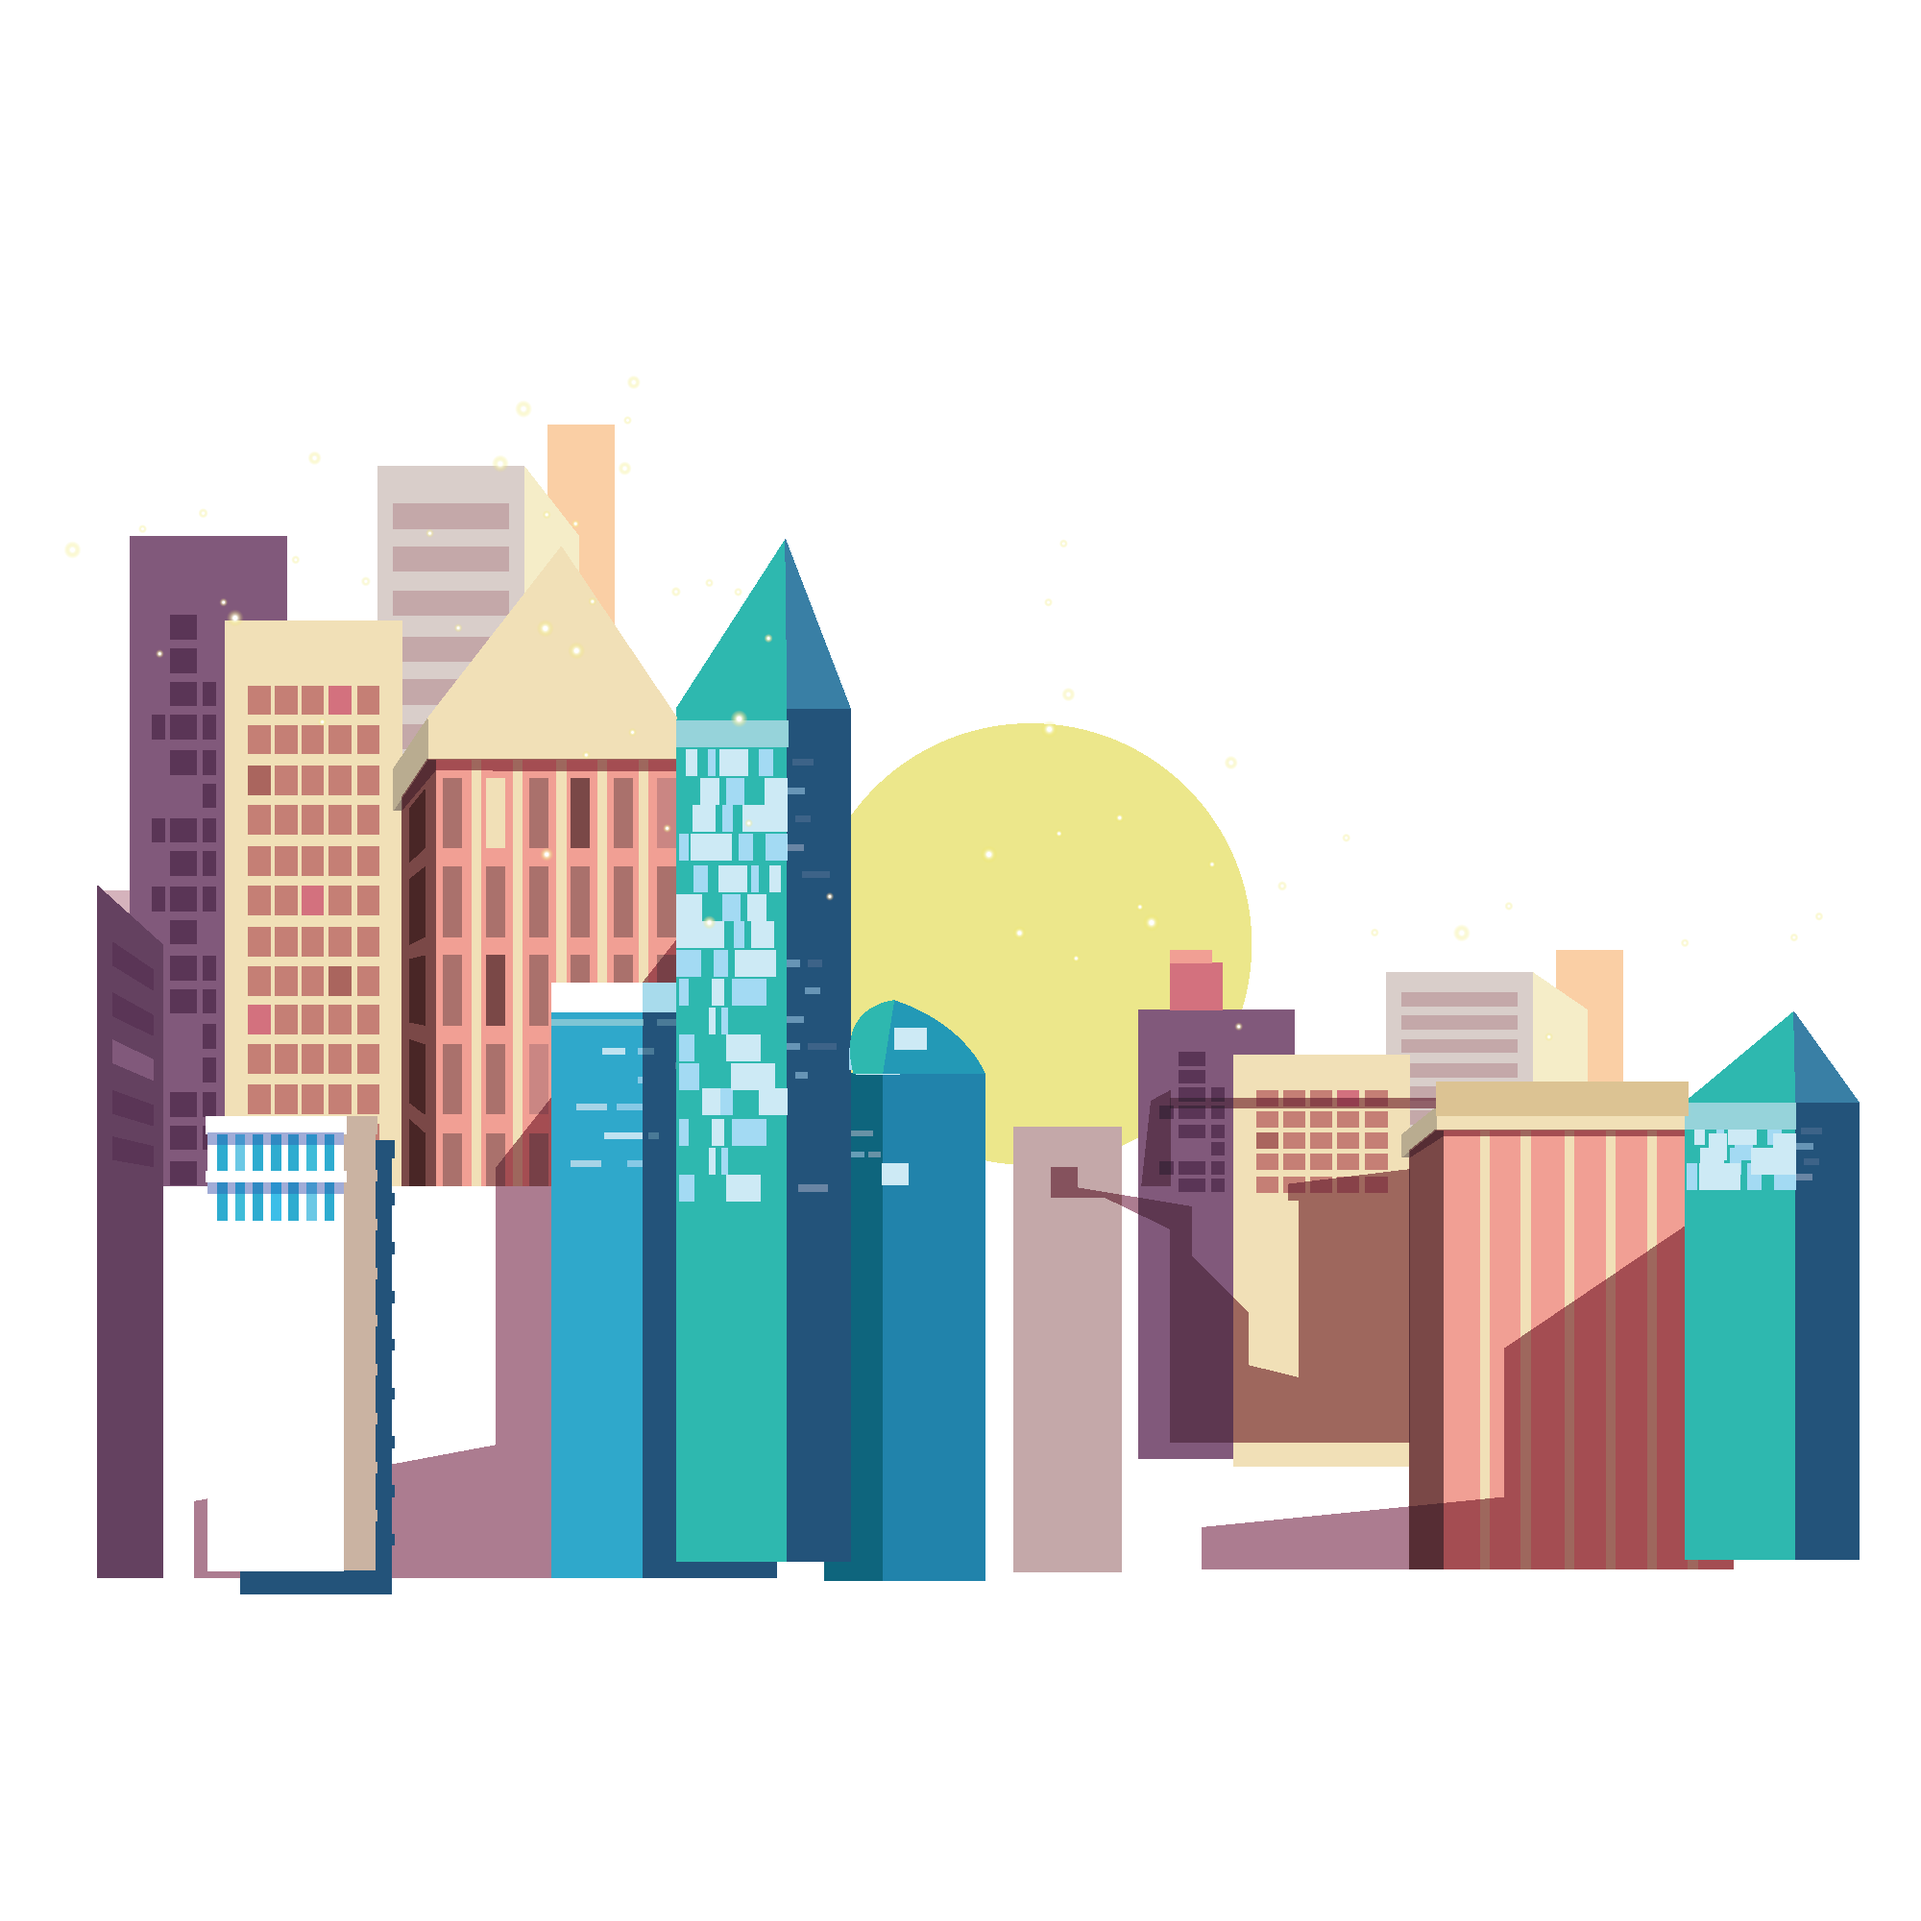
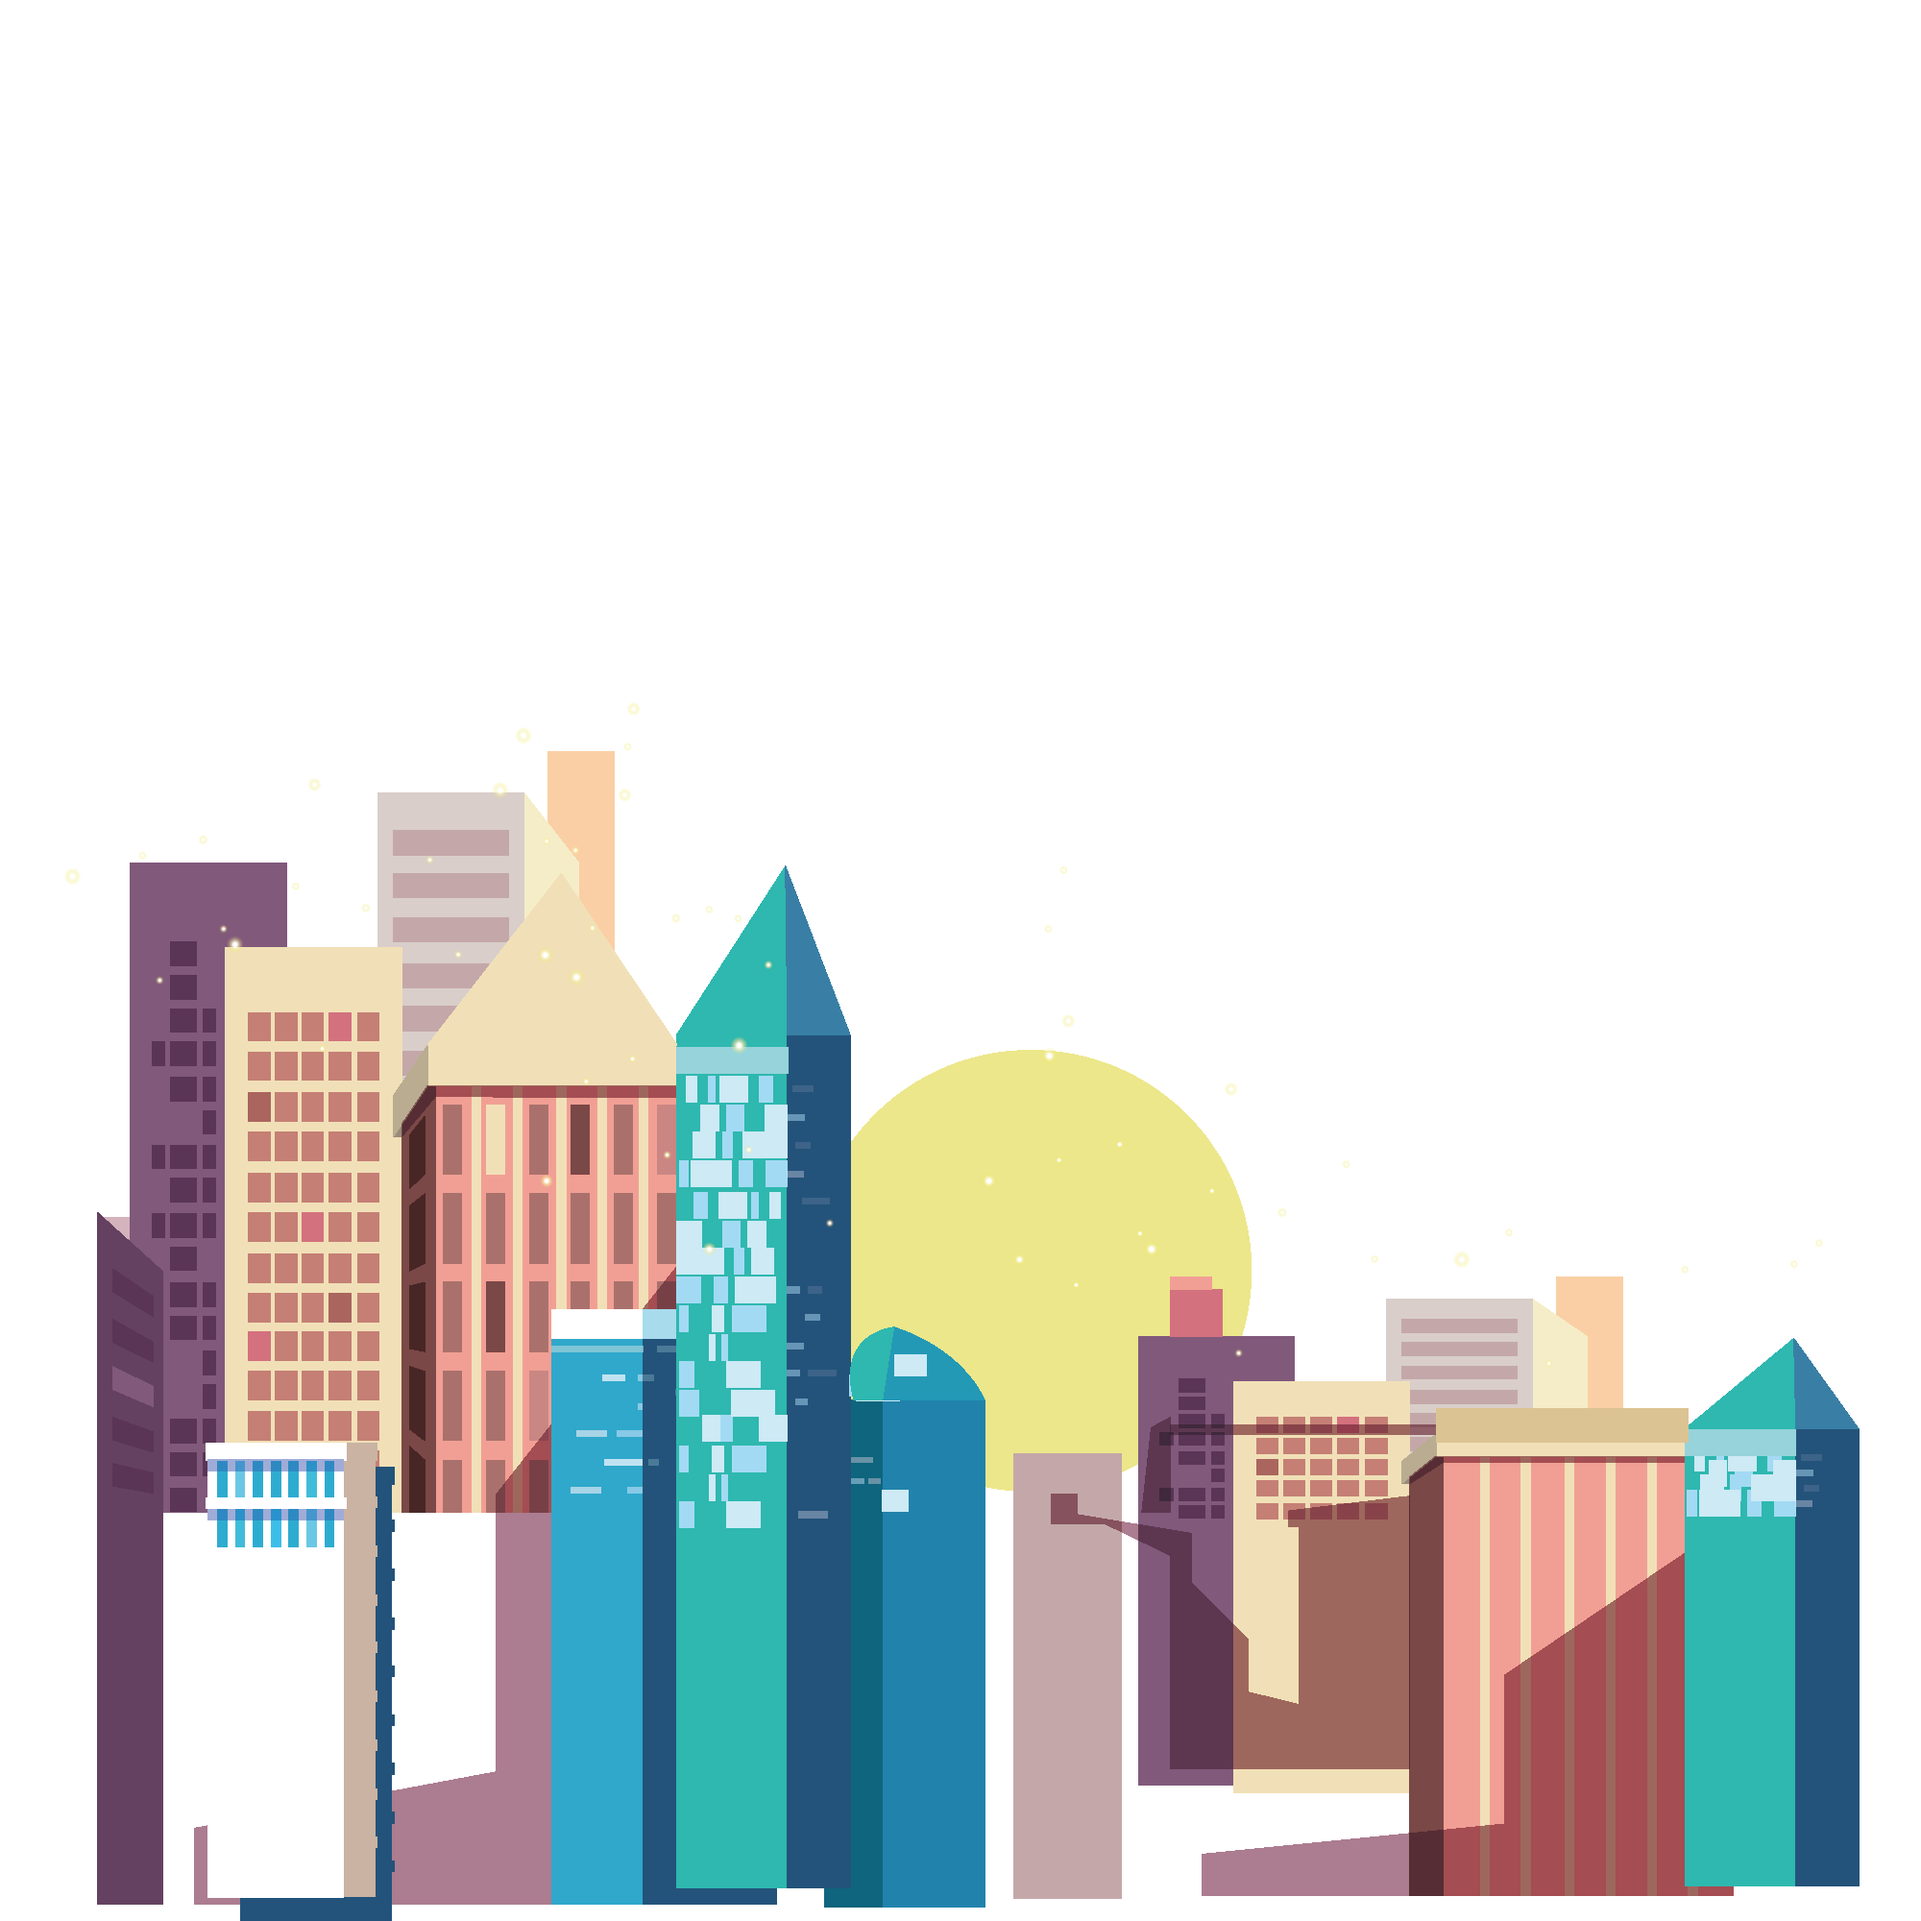
edit raymond

diff --git a/draw/templates/draw/room.html b/draw/templates/draw/room.html
@@ -14,14 +14,14 @@
 <body>
     <!-- You may change the dimensions of this canvas -->
     <div class="background" style="background-image: linear-gradient(rgb(0, 119, 255), aqua) ; height: 700px; width: 1400px;">
-        <div class="buildings" style="position: absolute; top: 330px; left: -50px;">
-            <img src="{% static 'buildings.png' %}" height="400px" width="400px">
+        <div class="buildings" style="position: absolute; top: 255px; left: -50px;">
+            <img src="{% static 'buildings1.png' %}" height="400px" width="400px">
         </div>
-        <div class="buildings" style="position: absolute; top: 330px; left: 1100px; transform: scaleX(-1);">
-            <img src="{% static 'buildings.png' %}" height="400px" width="400px">
+        <div class="buildings" style="position: absolute; top: 255px; left: 1000px; transform: scaleX(-1);">
+            <img src="{% static 'buildings_crop1.png' %}" height="400px" width="400px">
         </div>
 
-        <div class="clouds" style="position: absolute; top: 230px; left: 100px;">
+        <div class="clouds" style="position: absolute; top: 235px; left: 100px;">
             <img src="{% static 'clouds.png' %}" height="100px" width="200px">
         </div>
         <div class="clouds" style="position: absolute; top: 130px; left: 1000px;">
@@ -59,6 +59,7 @@
         <div class="ground" style="background-color: brown; height: 50px; width: 1400px; position: absolute; top: 650px;"></div>
     </div>
 </body>
+
 <script>
     var char1 = document.getElementsByClassName("character1")[0];
     var char2 = document.getElementsByClassName("character2")[0];
